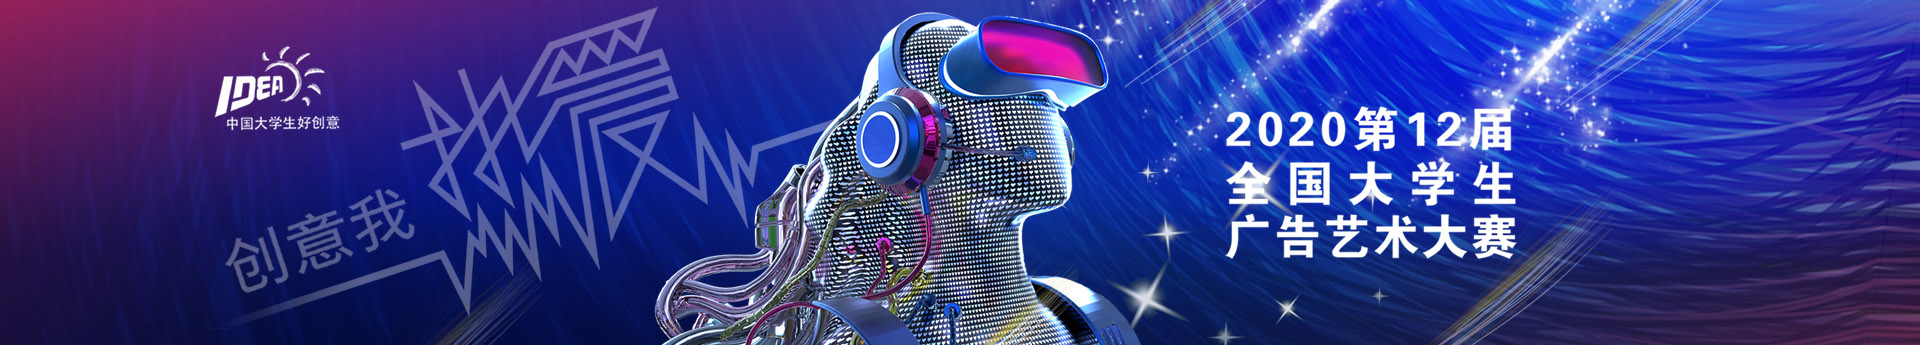
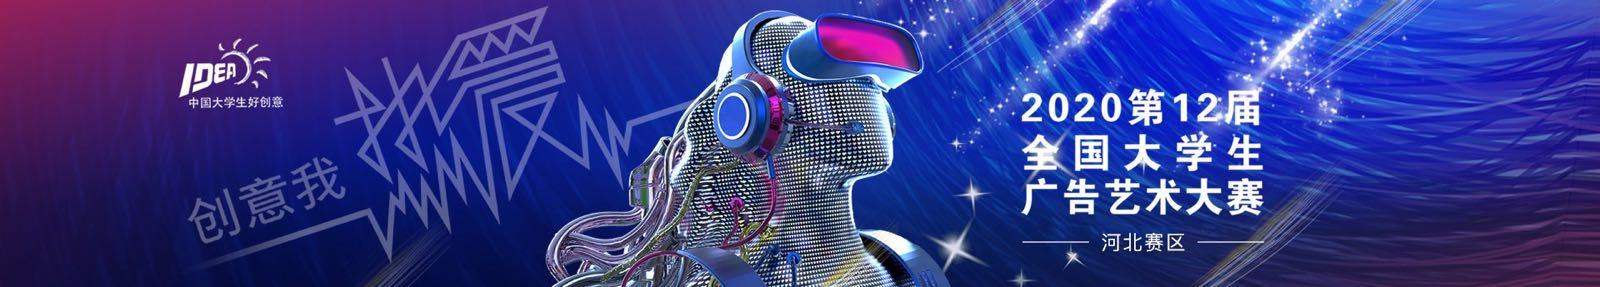
banner替换，作品编号

diff --git a/jinx.extra.charityad_public/src/views/Prize/Type.vue b/jinx.extra.charityad_public/src/views/Prize/Type.vue
@@ -26,7 +26,8 @@
       </div>
       <el-table style="width: 100%" :data="FirstPrizeList">
         <el-table-column type="index" width="50" label="序号"> </el-table-column>
-        <el-table-column prop="wid" label="作品编号"> </el-table-column>
+        <el-table-column prop="wno" label="作品编号"> </el-table-column>
+        <el-table-column prop="gameType" label="参加对象"> </el-table-column>
         <el-table-column prop="worksName" label="作品名称"> </el-table-column>
         <el-table-column prop="gameType" label="参加对象"> </el-table-column>
         <el-table-column prop="worksSeries" label="作品主题"> </el-table-column>
@@ -45,7 +46,8 @@
       </div>
       <el-table style="width: 100%" :data="SecondPrizeList">
         <el-table-column type="index" width="50" label="序号"> </el-table-column>
-        <el-table-column prop="wid" label="作品编号"> </el-table-column>
+        <el-table-column prop="wno" label="作品编号"> </el-table-column>
+        <el-table-column prop="gameType" label="参加对象"> </el-table-column>
         <el-table-column prop="worksName" label="作品名称"> </el-table-column>
         <el-table-column prop="gameType" label="参加对象"> </el-table-column>
         <el-table-column prop="worksSeries" label="作品主题"> </el-table-column>
@@ -64,7 +66,8 @@
       </div>
       <el-table style="width: 100%" :data="ThirdPrizeList">
         <el-table-column type="index" width="50" label="序号"> </el-table-column>
-        <el-table-column prop="wid" label="作品编号"> </el-table-column>
+        <el-table-column prop="wno" label="作品编号"> </el-table-column>
+        <el-table-column prop="gameType" label="参加对象"> </el-table-column>
         <el-table-column prop="worksName" label="作品名称"> </el-table-column>
         <el-table-column prop="gameType" label="参加对象"> </el-table-column>
         <el-table-column prop="worksSeries" label="作品主题"> </el-table-column>
@@ -83,7 +86,8 @@
       </div>
       <el-table style="width: 100%" :data="FourthPrizeList">
         <el-table-column type="index" width="50" label="序号"> </el-table-column>
-        <el-table-column prop="wid" label="作品编号"> </el-table-column>
+        <el-table-column prop="wno" label="作品编号"> </el-table-column>
+        <el-table-column prop="gameType" label="参加对象"> </el-table-column>
         <el-table-column prop="worksName" label="作品名称"> </el-table-column>
         <el-table-column prop="gameType" label="参加对象"> </el-table-column>
         <el-table-column prop="worksSeries" label="作品主题"> </el-table-column>
@@ -141,6 +145,10 @@ export default {
             let data = response.data.data;
 
             data.forEach(p => {
+              let works_type = that.$WorksTypeCode.find(x => x.code === p.worksType);
+              if (works_type != null) {
+                p.worksType = works_type.value;
+              }
               let game_type = that.$WorksGroupCode.find(x => x.code === p.gameType);
               if (game_type != null) {
                 p.gameType = game_type.value;

diff --git a/jinx.extra.ada_admin/src/views/Work/Round1/Main.vue b/jinx.extra.ada_admin/src/views/Work/Round1/Main.vue
@@ -11,7 +11,9 @@
     <el-table :data="List" stripe style="width: 100%">
       <el-table-column type="index" width="50"> </el-table-column>
       <!--<el-table-column prop="area" label="赛区"> </el-table-column>-->
+      <el-table-column prop="wno" label="作品编号"> </el-table-column>
       <el-table-column prop="worksName" label="作品名称"> </el-table-column>
+      <el-table-column prop="gameType" label="参赛对象"> </el-table-column>
       <el-table-column prop="worksSeries" label="作品主题"> </el-table-column>
       <el-table-column prop="worksType" label="作品类别"> </el-table-column>
       <!--<el-table-column prop="scoreTotal" label="得分"> </el-table-column>-->
@@ -60,6 +62,8 @@ export default {
           if (response && response.data.code == "0") {
             that.List = response.data.data;
             that.List.forEach(p => {
+              let game_type = that.$WorksGroupCode.find(x => x.code == p.gameType);
+              p.gameType = game_type == null ? "" : game_type.value;
               let series = that.$WorksSeriesCode.find(x => x.code == p.worksSeries);
               p.worksSeries = series == null ? "" : series.value;
               let type = that.$WorksTypeCode.find(x => x.code == p.worksType);

diff --git a/jinx.extra.ada_admin/src/views/Work/Round2/Main.vue b/jinx.extra.ada_admin/src/views/Work/Round2/Main.vue
@@ -11,7 +11,9 @@
     <el-table :data="List" stripe style="width: 100%">
       <el-table-column type="index" width="50"> </el-table-column>
       <!--<el-table-column prop="area" label="赛区"> </el-table-column>-->
+      <el-table-column prop="wno" label="作品编号"> </el-table-column>
       <el-table-column prop="worksName" label="作品名称"> </el-table-column>
+      <el-table-column prop="gameType" label="参赛对象"> </el-table-column>
       <el-table-column prop="worksSeries" label="作品主题"> </el-table-column>
       <el-table-column prop="worksType" label="作品类别"> </el-table-column>
       <!--<el-table-column prop="scoreTotal" label="得分"> </el-table-column>-->
@@ -60,6 +62,8 @@ export default {
           if (response && response.data.code == "0") {
             that.List = response.data.data;
             that.List.forEach(p => {
+              let game_type = that.$WorksGroupCode.find(x => x.code == p.gameType);
+              p.gameType = game_type == null ? "" : game_type.value;
               let series = that.$WorksSeriesCode.find(x => x.code == p.worksSeries);
               p.worksSeries = series == null ? "" : series.value;
               let type = that.$WorksTypeCode.find(x => x.code == p.worksType);

diff --git a/jinx.extra.charityad_admin/src/views/Work/Round1/Main.vue b/jinx.extra.charityad_admin/src/views/Work/Round1/Main.vue
@@ -11,7 +11,9 @@
     <el-table :data="List" stripe style="width: 100%">
       <el-table-column type="index" width="50"> </el-table-column>
       <!--<el-table-column prop="area" label="赛区"> </el-table-column>-->
+      <el-table-column prop="wno" label="作品编号"> </el-table-column>
       <el-table-column prop="worksName" label="作品名称"> </el-table-column>
+      <el-table-column prop="gameType" label="参赛对象"> </el-table-column>
       <el-table-column prop="worksSeries" label="作品主题"> </el-table-column>
       <el-table-column prop="worksType" label="作品类别"> </el-table-column>
       <!--<el-table-column prop="scoreTotal" label="得分"> </el-table-column>-->
@@ -60,6 +62,8 @@ export default {
           if (response && response.data.code == "0") {
             that.List = response.data.data;
             that.List.forEach(p => {
+              let game_type = that.$WorksGroupCode.find(x => x.code == p.gameType);
+              p.gameType = game_type == null ? "" : game_type.value;
               let series = that.$WorksSeriesCode.find(x => x.code == p.worksSeries);
               p.worksSeries = series == null ? "" : series.value;
               let type = that.$WorksTypeCode.find(x => x.code == p.worksType);

diff --git a/jinx.extra.charityad_admin/src/views/Work/Round2/Main.vue b/jinx.extra.charityad_admin/src/views/Work/Round2/Main.vue
@@ -11,7 +11,9 @@
     <el-table :data="List" stripe style="width: 100%">
       <el-table-column type="index" width="50"> </el-table-column>
       <!--<el-table-column prop="area" label="赛区"> </el-table-column>-->
+      <el-table-column prop="wno" label="作品编号"> </el-table-column>
       <el-table-column prop="worksName" label="作品名称"> </el-table-column>
+      <el-table-column prop="gameType" label="参赛对象"> </el-table-column>
       <el-table-column prop="worksSeries" label="作品主题"> </el-table-column>
       <el-table-column prop="worksType" label="作品类别"> </el-table-column>
       <!--<el-table-column prop="scoreTotal" label="得分"> </el-table-column>-->
@@ -60,6 +62,8 @@ export default {
           if (response && response.data.code == "0") {
             that.List = response.data.data;
             that.List.forEach(p => {
+              let game_type = that.$WorksGroupCode.find(x => x.code == p.gameType);
+              p.gameType = game_type == null ? "" : game_type.value;
               let series = that.$WorksSeriesCode.find(x => x.code == p.worksSeries);
               p.worksSeries = series == null ? "" : series.value;
               let type = that.$WorksTypeCode.find(x => x.code == p.worksType);

diff --git a/jinx.extra.ada_admin/src/views/Work/Round1/Appraisal.vue b/jinx.extra.ada_admin/src/views/Work/Round1/Appraisal.vue
@@ -9,11 +9,15 @@
           </div>
           <div class="jinx-works-info">
             <span>作品编号</span>
-            <span v-text="WorksInfo.works.wid"></span>
+            <span v-text="WorksInfo.works.wno"></span>
           </div>
           <div class="jinx-works-info">
             <span>作品名称</span>
             <span v-text="WorksInfo.works.worksName"></span>
+          </div>
+          <div class="jinx-works-info">
+            <span>参赛对象</span>
+            <span v-text="WorksInfo.works.gameType"></span>
           </div>
           <div class="jinx-works-info">
             <span>作品类别</span>
@@ -123,6 +127,7 @@ export default {
               that.Scored = true;
             }
 
+            that.WorksInfo.works.gameType = that.$WorksGroupCode.find(p => p.code == that.WorksInfo.works.gameType).value;
             that.WorksInfo.works.worksSeries = that.$WorksSeriesCode.find(p => p.code == that.WorksInfo.works.worksSeries).value;
             that.WorksInfo.works.worksType = that.$WorksTypeCode.find(p => p.code == that.WorksInfo.works.worksType).value;
             that.WorksInfo.works.materialSurce = that.$MaterialSurceCode.find(p => p.code == that.WorksInfo.works.materialSurce).value;

diff --git a/jinx.extra.charityad_admin/src/views/Work/Round1/Appraisal.vue b/jinx.extra.charityad_admin/src/views/Work/Round1/Appraisal.vue
@@ -9,11 +9,15 @@
           </div>
           <div class="jinx-works-info">
             <span>作品编号</span>
-            <span v-text="WorksInfo.works.wid"></span>
+            <span v-text="WorksInfo.works.wno"></span>
           </div>
           <div class="jinx-works-info">
             <span>作品名称</span>
             <span v-text="WorksInfo.works.worksName"></span>
+          </div>
+          <div class="jinx-works-info">
+            <span>参赛对象</span>
+            <span v-text="WorksInfo.works.gameType"></span>
           </div>
           <div class="jinx-works-info">
             <span>作品类别</span>
@@ -123,6 +127,7 @@ export default {
               that.Scored = true;
             }
 
+            that.WorksInfo.works.gameType = that.$WorksGroupCode.find(p => p.code == that.WorksInfo.works.gameType).value;
             that.WorksInfo.works.worksSeries = that.$WorksSeriesCode.find(p => p.code == that.WorksInfo.works.worksSeries).value;
             that.WorksInfo.works.worksType = that.$WorksTypeCode.find(p => p.code == that.WorksInfo.works.worksType).value;
             that.WorksInfo.works.materialSurce = that.$MaterialSurceCode.find(p => p.code == that.WorksInfo.works.materialSurce).value;

diff --git a/jinx.extra.charityad_public/src/views/Competitor/Works.vue b/jinx.extra.charityad_public/src/views/Competitor/Works.vue
@@ -8,8 +8,9 @@
     <el-table :data="List" stripe style="width: 100%; margin: 30px auto;">
       <el-table-column type="index" width="50"> </el-table-column>
       <!--<el-table-column prop="area" label="赛区"> </el-table-column>-->
-      <el-table-column prop="wid" label="作品编号"> </el-table-column>
+      <el-table-column prop="wno" label="作品编号"> </el-table-column>
       <el-table-column prop="worksName" label="作品名称"> </el-table-column>
+      <el-table-column prop="gameType" label="参加对象"> </el-table-column>
       <el-table-column prop="worksSeries" label="作品主题"> </el-table-column>
       <el-table-column prop="worksType" label="作品类别"> </el-table-column>
       <el-table-column prop="author1" label="作者"> </el-table-column>
@@ -46,6 +47,7 @@ export default {
           that.List.forEach(p => {
             p.worksType = that.$WorksTypeCode.find(x => x.code == p.worksType).value;
             p.worksSeries = that.$WorksSeriesCode.find(x => x.code == p.worksSeries).value;
+            p.gameType = that.$WorksGroupCode.find(x => x.code == p.gameType).value;
             let authors = [];
             for (let i = 1; i <= 5; i++) {
               if (p["author" + i] !== "") {

diff --git a/jinx.extra.charityad_public/src/views/Home.vue b/jinx.extra.charityad_public/src/views/Home.vue
@@ -493,8 +493,8 @@ export default {
 <style lang="less" scoped>
 .jinx-banner {
   min-width: @typical-width;
-  height: 600px;
-  color: #000;
+  height: 480px;
+  // color: #000;
   // background-color: @primary-color;
   // background-position: center;
   // background-size: cover;
@@ -1054,24 +1054,24 @@ export default {
 }
 
 .jinx-contactus {
-  height: 430px;
+  height: 340px;
   position: relative;
 
   .contactus-pos {
     position: absolute;
     width: 100%;
     top: 100px;
-    height: 430px;
+    height: 340px;
 
     .contactus {
       padding: 50px 0;
       width: @typical-width;
-      height: 430px;
+      height: 340px;
       box-sizing: border-box;
       margin: 0 auto;
       color: #ffffff;
       // background-image: url("../assets/images/home/contact_us_back.png");
-      background-size: contain;
+      background-size: cover;
       background-color: @primary-color;
       text-align: center;
 
@@ -1083,7 +1083,7 @@ export default {
 
       .title {
         font-size: 24px;
-        margin-bottom: 100px;
+        margin-bottom: 50px;
         margin-top: 10px;
         // text-align: center;
         // color: @primary-color-dark;

diff --git a/jinx.extra.ada_public/index.html b/jinx.extra.ada_public/index.html
@@ -53,7 +53,7 @@
 
 
   <div id="bd">
-    <div class="m-ban"><a href="javascript:;" style='background-image:url(data/img/2003/5e7b1d2cdd216.jpg);'></a></div>
+    <div class="m-ban"><a href="javascript:;" style='background-image:url(data/img/2003/5e7b1d2cdd216.jpg); background-size: cover;'></a></div>
 
     <div class="wrap">
       <div class="m-cur">
@@ -144,7 +144,7 @@
     <div class="wrap">
       <div class="footer-bottom">
         <div class="footer-join">
-          <h2><a href="http://www.sun-ada.net/dynamics.html" style="color:#fff">赛区列表</a></h2>
+          <h2><a href="http://www.sun-ada.net/dynamics.html" style="color:#fff">赛区列表</a></h2>4
           <h2>商务合作：010 - 58612985</h2>
         </div>
         <div class="footer-copyright">

diff --git a/jinx.extra.ada_admin/src/views/Work/Round2/Score.vue b/jinx.extra.ada_admin/src/views/Work/Round2/Score.vue
@@ -166,6 +166,7 @@ export default {
               that.Scored = false;
             }
 
+            that.WorksInfo.works.gameType = that.$WorksGroupCode.find(p => p.code == that.WorksInfo.works.gameType).value;
             that.WorksInfo.works.worksSeries = that.$WorksSeriesCode.find(p => p.code == that.WorksInfo.works.worksSeries).value;
             that.WorksInfo.works.worksType = that.$WorksTypeCode.find(p => p.code == that.WorksInfo.works.worksType).value;
             that.WorksInfo.works.materialSurce = that.$MaterialSurceCode.find(p => p.code == that.WorksInfo.works.materialSurce).value;

diff --git a/jinx.extra.charityad_admin/src/views/Work/Round2/Score.vue b/jinx.extra.charityad_admin/src/views/Work/Round2/Score.vue
@@ -166,6 +166,7 @@ export default {
               that.Scored = false;
             }
 
+            that.WorksInfo.works.gameType = that.$WorksGroupCode.find(p => p.code == that.WorksInfo.works.gameType).value;
             that.WorksInfo.works.worksSeries = that.$WorksSeriesCode.find(p => p.code == that.WorksInfo.works.worksSeries).value;
             that.WorksInfo.works.worksType = that.$WorksTypeCode.find(p => p.code == that.WorksInfo.works.worksType).value;
             that.WorksInfo.works.materialSurce = that.$MaterialSurceCode.find(p => p.code == that.WorksInfo.works.materialSurce).value;
